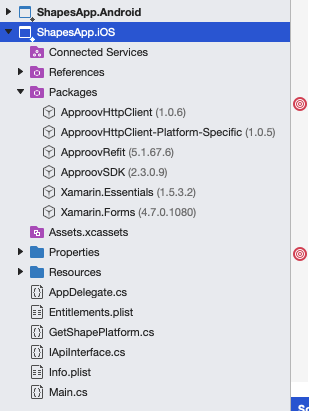
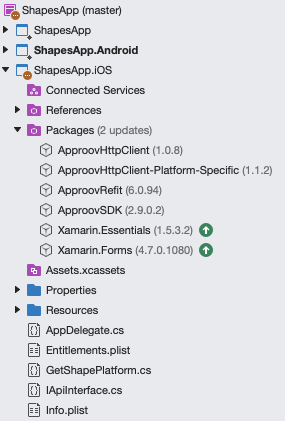
Update instructions and images to use 2.9.0 SDK

Changed region(s): [[0.0, 0.0, 1.0, 1.0]]

diff --git a/README.md b/README.md
@@ -20,7 +20,7 @@ You will also need to install the custom `ApproovHttpClient` implementation, wic
 
 The Approov SDK is also available as a NuGet package in the repository `nuget.org`, the packages name being `ApproovSDK`.
 
-![Add ApproovSDK Package](readme-images/add-approov-sdk-package.png)
+![Add ApproovSDK Package](readme-images/add-approovsdk-package.png)
 
 ## USING THE APPROOV SDK ENABLED REFIT PACKAGE
 

diff --git a/SHAPES-EXAMPLE.md b/SHAPES-EXAMPLE.md
@@ -51,7 +51,7 @@ You will also need to install the custom `ApproovHttpClient` implementation, wic
 
 The Approov SDK is available as a NuGet package in the default `nuget.org` repository.
 
-![Add ApproovSDK Package](readme-images/add-approov-sdk-package.png)
+![Add ApproovSDK Package](readme-images/add-approovsdk-package.png)
 
 Your project structure should now look like this:
 
